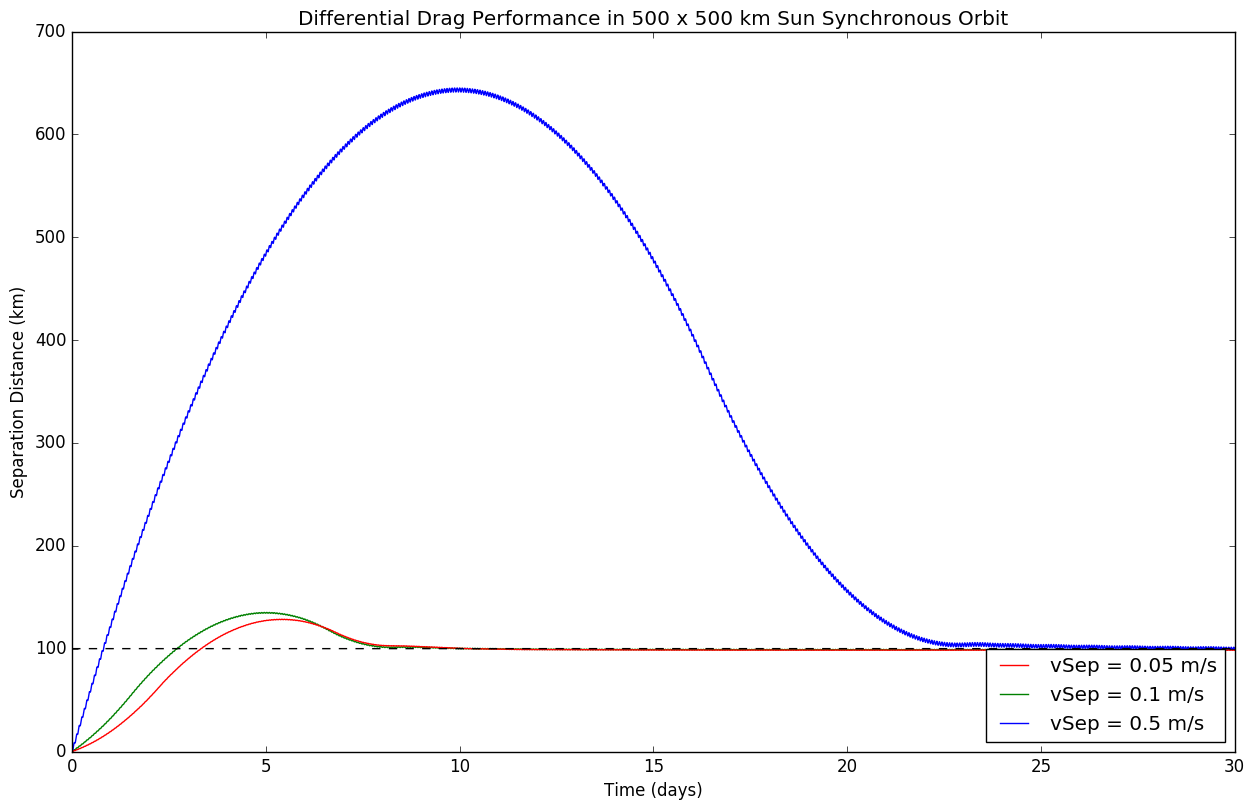
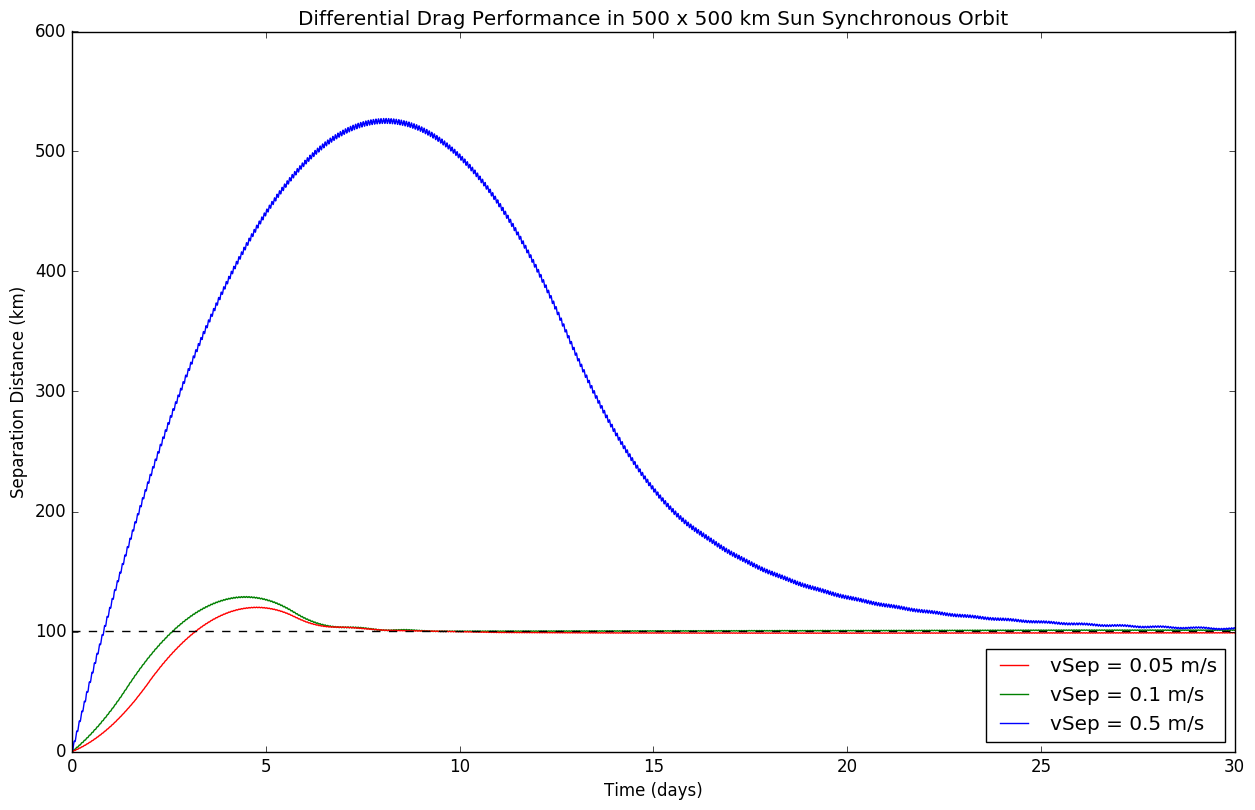
Fixed radian-degree issue

diff --git a/diff_drag.py b/diff_drag.py
@@ -20,18 +20,17 @@ r_earth = 6371009 # [m]
 # Initial altitude
 altitude_0 = 500 * 1000 # [m]
 
-# TODO: Currently assumes orbit starts at periapsis
 # Periapsis
 r_peri = altitude_0 + r_earth
 
 # TODO: Currently assumes orbit starts at periapsis
 # Orbital elements
-orbital_e = 0.000                                                 # Eccentricity [unitless]
-orbital_i = 98.0                                                    # Inclination [deg]
+orbital_e = 0.000                                                   # Eccentricity [unitless]
+orbital_i = 98.0 * math.pi / 180                                    # Inclination [rad]
 orbital_a = r_peri * (1 + ((1 + orbital_e)/(1 - orbital_e)))/2.0    # Semi-major axis [m]
-#orbital_Omega                                                      # unimplemented
-#orbital_omega                                                      # unimplemented
-#orbital_nu                                                         # unimplemented
+orbital_Omega = 0.0 * math.pi / 180                                 # unimplemented
+orbital_omega = 0.0 * math.pi / 180                                 # unimplemented
+orbital_nu_0 = 0.0 * math.pi / 180                                  # True anomaly [rad]
 
 print(orbital_a)
 
@@ -42,13 +41,22 @@ mu_earth = 398600441500000.0 # [m^3/s^2] - definitely not that exact to that man
 v_0 = (mu_earth * ((2.0/r_peri)-(1.0/orbital_a))) ** 0.5    # [m/s]
 
 # TODO: Currently assumes orbit starts at periapsis and that periapsis occurs when x = 0
-# Define three components of initial velocity
-vx_0 = 0.0                              # [m/s]
-vy_0 = v_0 * math.sin(orbital_i)        # [m/s]
-vz_0 = v_0 * math.cos(orbital_i)        # [m/s]
 
-# Calculate initial velocity magnitude
-# v_0 = np.sqrt(vx_0**2 + vy_0**2 + vz_0**2)
+# Define three components of initial position
+rx_0_1 = r_peri
+ry_0_1 = 0.0
+rz_0_1 = 0.0
+
+rx_0_2 = r_peri
+ry_0_2 = 0.0
+rz_0_2 = 0.0
+
+# Define three components of initial velocity
+vx_0 = 0.0                                          # [m/s]
+vy_0 = v_0 * math.sin(orbital_i)  # [m/s]
+vz_0 = v_0 * math.cos(orbital_i)  # [m/s]
+
+
 
 # Specify desired separation velocity between satellites (set to 0 if not separating or using a single satellite)
 vseparation = 0.1 # [m/s]
@@ -85,7 +93,7 @@ def run_simulation(# Time step, in seconds.
 
                    # TODO: Currently assumes orbit starts at periapsis and that periapsis occurs when x = 0
                    # Initial state vector: (x, y, z, vx, vy, vz).
-                   state = [r_peri, 0, 0, vx_0_1, vy_0_1, vz_0_1],
+                   state = [rx_0_1, ry_0_1, rz_0_1, vx_0_1, vy_0_1, vz_0_1],
 
                    # Initial Julian date (sorry).
                    t0 = 2457467.50, # [days] - yes, it's dumb, but it's standard
@@ -123,7 +131,7 @@ def run_simulation(# Time step, in seconds.
                    separation_target = target_distance, # [m]
 
                    # Initial state of the second satellite.
-                   second_state = [r_earth + altitude_0, 0, 0, vx_0_2, vy_0_2, vz_0_2],
+                   second_state = [rx_0_2, ry_0_2, rz_0_2, vx_0_2, vy_0_2, vz_0_2],
 
                    # Orientation mode for the first satellite.
                    # t: Target (i.e. the other satellite)
